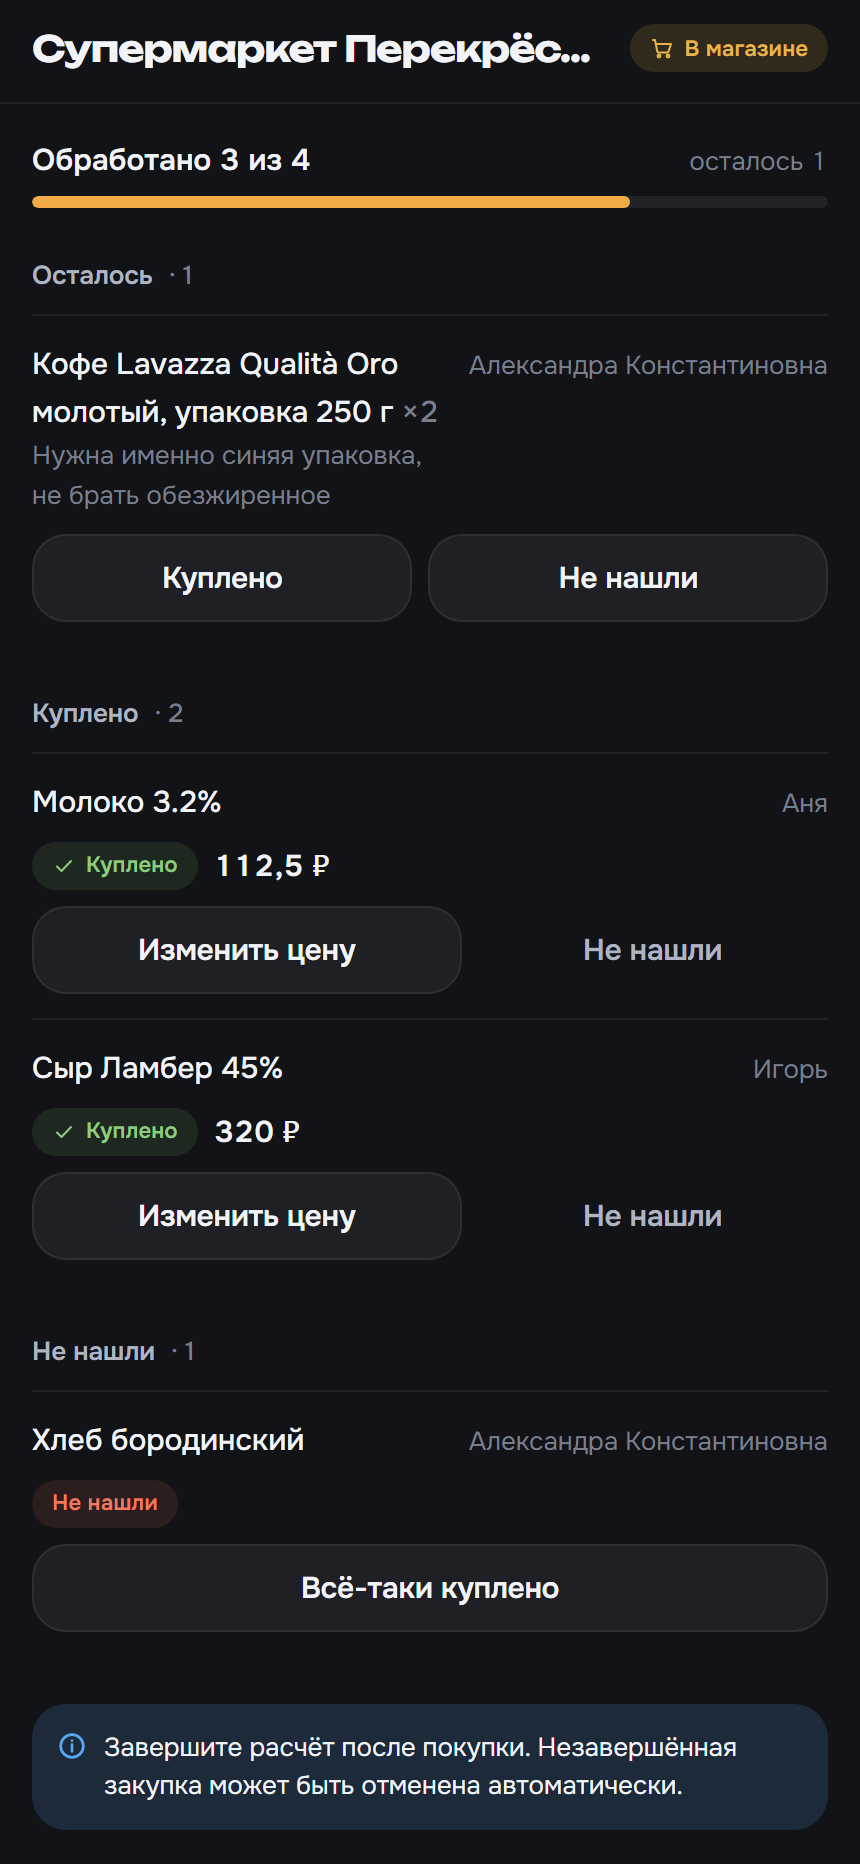
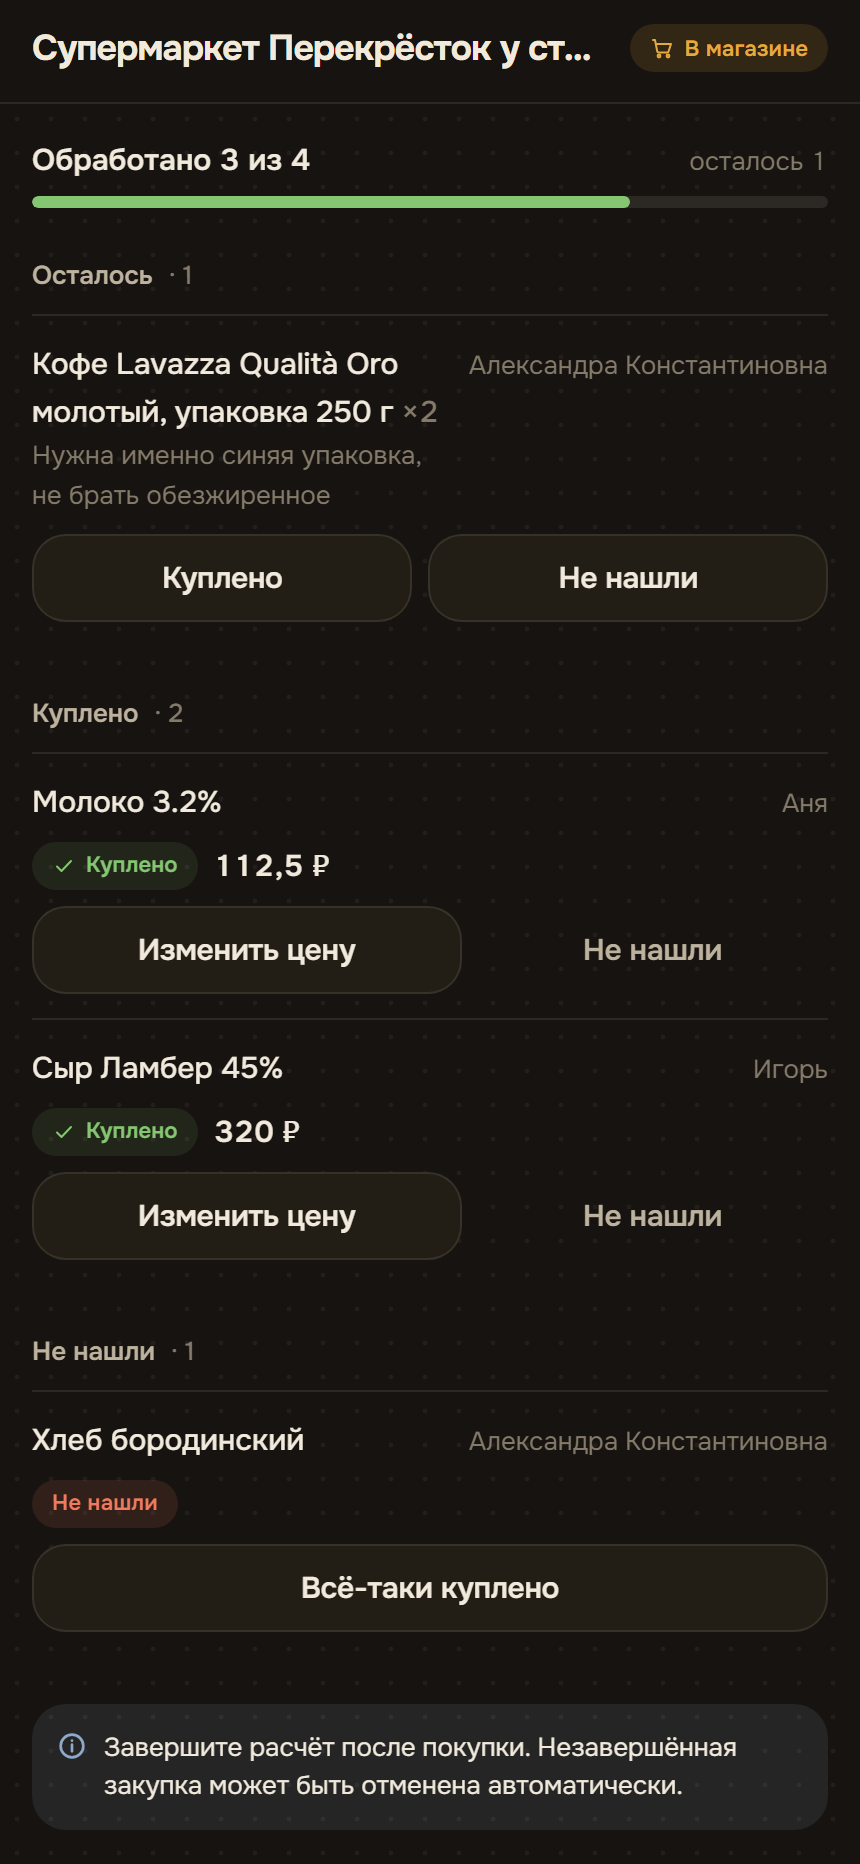
design(frontend-new): перенос системы C в продуктовые токены + dot-фактура
Оба [data-theme]-блока — на «нейтрали, цвет = значение»: чернильная/слоновая
CTA без hue, доменные токены --vote/--shop/--money, тёплые нейтрали и тени,
плоские поверхности. Фактура «перфолента-точки» на body::before (z-index:-1).
Заголовки → Onest (--font-head), Unbounded только в логотипе. Статус «Сбор»
→ warning-домен; полосы: таймер сбора — шафран, прогресс покупок — зелёный.
Vitest: отключён deps-optimizer (источник флейки «no tests»); 187/187 ×2.
Скриншот-регрессия Store Run пересняna (23 кадра).

diff --git a/frontend-new/src/styles/tokens.css b/frontend-new/src/styles/tokens.css
@@ -111,100 +111,116 @@
   --nav-h: 66px;
 }
 
-/* ---------- Colors: light ---------- */
+/* ---------- Colors: light — система C «нейтрали, цвет = значение»
+   (docs/design-directions/system-c-spec.md). Действие (--accent) — чернила
+   без hue; цвет несут только домены (--vote/--shop/--money) и статусы. ---------- */
 [data-theme='light'] {
-  --canvas: #f1f3f6;
-  --surface: #ffffff;
-  --surface-secondary: #f3f5f8;
+  --canvas: #f3efe7;
+  --surface: #fdfbf6;
+  --surface-secondary: #ece7dc;
   --elevated: #ffffff;
-  --text-primary: #1d2127;
-  --text-secondary: #5d646f;
-  --text-tertiary: #8b929e;
-  --divider: rgba(55, 65, 90, 0.1);
-  --accent: #b27708;
-  --accent-foreground: #261a02;
-  --accent-hover: #9e6907;
-  --accent-active: #8a5c06;
-  --accent-tint: rgba(214, 137, 20, 0.12);
-  --accent-ring: rgba(214, 137, 20, 0.2);
-  --success: #47823a;
-  --success-tint: rgba(110, 180, 95, 0.13);
-  --success-foreground: #ffffff;
-  --warning: #a97b0e;
-  --warning-tint: rgba(232, 181, 74, 0.18);
-  --warning-foreground: #ffffff;
-  --danger: #c2503b;
-  --danger-tint: rgba(225, 105, 80, 0.11);
-  --danger-foreground: #ffffff;
-  --info: #2a7bd6;
-  --info-tint: rgba(86, 168, 245, 0.14);
-  --info-foreground: #ffffff;
-  --overlay: rgba(8, 12, 18, 0.45);
-  --focus-ring: rgba(214, 137, 20, 0.55);
+  --text-primary: #23201b;
+  --text-secondary: #5d574c;
+  --text-tertiary: #8d8678;
+  --divider: rgba(60, 52, 38, 0.12);
+  --accent: #26211a;
+  --accent-foreground: #f7f3ea;
+  --accent-hover: #322c23;
+  --accent-active: #1b1712;
+  --accent-tint: rgba(38, 33, 26, 0.07);
+  --accent-ring: rgba(38, 33, 26, 0.18);
+  --vote: #b4451f;
+  --vote-tint: rgba(180, 69, 31, 0.1);
+  --shop: #9a6604;
+  --shop-tint: rgba(154, 102, 4, 0.11);
+  --money: #3e7a34;
+  --money-tint: rgba(62, 122, 52, 0.1);
+  --success: #3e7a34;
+  --success-tint: rgba(62, 122, 52, 0.1);
+  --success-foreground: #f4f9f1;
+  --warning: #9a6604;
+  --warning-tint: rgba(154, 102, 4, 0.12);
+  --warning-foreground: #fffdf6;
+  --danger: #b23a25;
+  --danger-tint: rgba(178, 58, 37, 0.1);
+  --danger-foreground: #fdf1ee;
+  --info: #58718f;
+  --info-tint: rgba(88, 113, 143, 0.1);
+  --info-foreground: #f2f5f9;
+  --overlay: rgba(28, 22, 14, 0.5);
+  --focus-ring: rgba(38, 33, 26, 0.5);
+  --texture-dot: rgba(90, 62, 20, 0.07);
 
-  /* materials «Графит и мёд» */
-  --card-grad: linear-gradient(180deg, #ffffff, #f3f5f8);
-  --float-grad: linear-gradient(180deg, rgba(255, 255, 255, 0.96), rgba(243, 245, 249, 0.98));
-  --surface-glass: rgba(247, 248, 250, 0.78);
+  /* materials: плоские поверхности, тёплые тени */
+  --card-grad: linear-gradient(180deg, #fdfbf6, #fdfbf6);
+  --float-grad: linear-gradient(180deg, rgba(253, 251, 246, 0.96), rgba(253, 251, 246, 0.98));
+  --surface-glass: rgba(253, 251, 246, 0.85);
   --glass-blur: 10px;
-  --accent-grad: linear-gradient(135deg, #f6be5f, #d68914);
-  --accent-grad-hover: linear-gradient(135deg, #f8c876, #e29a1d);
-  --accent-grad-active: linear-gradient(135deg, #edb44f, #c67f10);
-  --shadow-1: 0 1px 3px rgba(55, 65, 90, 0.08), 0 2px 8px rgba(55, 65, 90, 0.06);
-  --shadow-2: inset 0 1px 0 rgba(255, 255, 255, 0.9), 0 14px 30px -16px rgba(55, 65, 90, 0.3), 0 3px 8px -4px rgba(55, 65, 90, 0.15);
-  --shadow-3: inset 0 1px 0 rgba(255, 255, 255, 0.9), 0 18px 40px -14px rgba(50, 60, 85, 0.35), 0 4px 12px -4px rgba(50, 60, 85, 0.18);
+  --accent-grad: linear-gradient(180deg, #26211a, #26211a);
+  --accent-grad-hover: linear-gradient(180deg, #322c23, #322c23);
+  --accent-grad-active: linear-gradient(180deg, #1b1712, #1b1712);
+  --shadow-1: 0 1px 2px rgba(70, 55, 25, 0.05), 0 4px 12px -8px rgba(70, 55, 25, 0.18);
+  --shadow-2: 0 1px 2px rgba(70, 55, 25, 0.05), 0 8px 22px -14px rgba(70, 55, 25, 0.22);
+  --shadow-3: 0 2px 4px rgba(70, 55, 25, 0.06), 0 12px 30px -14px rgba(70, 55, 25, 0.3);
 }
 
-/* ---------- Colors: dark ---------- */
+/* ---------- Colors: dark — система C ---------- */
 [data-theme='dark'] {
-  --canvas: #121317;
-  --surface: #1e2025;
-  --surface-secondary: #17181c;
-  --elevated: #26282f;
-  --text-primary: #f1f3f7;
-  --text-secondary: #aeb5c0;
-  --text-tertiary: #787f8c;
-  --divider: rgba(228, 235, 248, 0.08);
-  --accent: #f0ab46;
-  --accent-foreground: #261a02;
-  --accent-hover: #f4ba62;
-  --accent-active: #d68914;
-  --accent-tint: rgba(240, 171, 70, 0.14);
-  --accent-ring: rgba(240, 171, 70, 0.18);
-  --success: #8fcb7f;
-  --success-tint: rgba(125, 195, 110, 0.12);
-  --success-foreground: #10250b;
-  --warning: #e8b54a;
-  --warning-tint: rgba(232, 181, 74, 0.14);
-  --warning-foreground: #241802;
-  --danger: #ee7a5f;
-  --danger-tint: rgba(238, 110, 80, 0.12);
-  --danger-foreground: #2a0f06;
-  --info: #56a8f5;
-  --info-tint: rgba(86, 168, 245, 0.16);
-  --info-foreground: #0a1a2e;
-  --overlay: rgba(8, 12, 18, 0.55);
-  --focus-ring: rgba(240, 171, 70, 0.5);
+  --canvas: #171310;
+  --surface: #221d15;
+  --surface-secondary: #1c1812;
+  --elevated: #2a241b;
+  --text-primary: #f0e9dc;
+  --text-secondary: #bdb29e;
+  --text-tertiary: #837a69;
+  --divider: rgba(240, 233, 220, 0.1);
+  --accent: #efe7d8;
+  --accent-foreground: #1d1812;
+  --accent-hover: #fff8eb;
+  --accent-active: #ded4c2;
+  --accent-tint: rgba(239, 231, 216, 0.1);
+  --accent-ring: rgba(239, 231, 216, 0.22);
+  --vote: #ff9066;
+  --vote-tint: rgba(255, 144, 102, 0.12);
+  --shop: #e4a93f;
+  --shop-tint: rgba(228, 169, 63, 0.12);
+  --money: #84c671;
+  --money-tint: rgba(132, 198, 113, 0.11);
+  --success: #84c671;
+  --success-tint: rgba(132, 198, 113, 0.11);
+  --success-foreground: #13200b;
+  --warning: #e4a93f;
+  --warning-tint: rgba(228, 169, 63, 0.13);
+  --warning-foreground: #241a02;
+  --danger: #f07a5e;
+  --danger-tint: rgba(240, 122, 94, 0.12);
+  --danger-foreground: #2a0e06;
+  --info: #8fa9c9;
+  --info-tint: rgba(143, 169, 201, 0.12);
+  --info-foreground: #0e1622;
+  --overlay: rgba(0, 0, 0, 0.6);
+  --focus-ring: rgba(239, 231, 216, 0.45);
+  --texture-dot: rgba(244, 235, 220, 0.055);
 
-  --card-grad: linear-gradient(180deg, #212329, #1b1d22);
-  --float-grad: linear-gradient(180deg, rgba(46, 50, 58, 0.94), rgba(35, 38, 45, 0.97));
-  --surface-glass: rgba(30, 32, 37, 0.62);
+  --card-grad: linear-gradient(180deg, #221d15, #221d15);
+  --float-grad: linear-gradient(180deg, rgba(42, 36, 27, 0.96), rgba(34, 29, 21, 0.98));
+  --surface-glass: rgba(34, 29, 21, 0.85);
   --glass-blur: 12px;
-  --accent-grad: linear-gradient(135deg, #f6be5f, #d68914);
-  --accent-grad-hover: linear-gradient(135deg, #f8c876, #e29a1d);
-  --accent-grad-active: linear-gradient(135deg, #edb44f, #c67f10);
-  --shadow-1: 0 1px 2px rgba(0, 0, 0, 0.35), 0 2px 8px rgba(0, 0, 0, 0.25);
-  --shadow-2: inset 0 1px 0 rgba(235, 240, 250, 0.06), 0 14px 34px -16px rgba(4, 6, 10, 0.8), 0 3px 8px -3px rgba(6, 8, 12, 0.5);
-  --shadow-3: inset 0 1px 0 rgba(235, 240, 250, 0.08), 0 18px 40px -14px rgba(4, 6, 10, 0.85), 0 4px 12px -4px rgba(5, 7, 10, 0.6);
+  --accent-grad: linear-gradient(180deg, #efe7d8, #efe7d8);
+  --accent-grad-hover: linear-gradient(180deg, #fff8eb, #fff8eb);
+  --accent-grad-active: linear-gradient(180deg, #ded4c2, #ded4c2);
+  --shadow-1: 0 1px 2px rgba(0, 0, 0, 0.35), 0 4px 12px -8px rgba(0, 0, 0, 0.4);
+  --shadow-2: 0 1px 2px rgba(0, 0, 0, 0.35), 0 8px 22px -14px rgba(0, 0, 0, 0.6);
+  --shadow-3: 0 2px 4px rgba(0, 0, 0, 0.4), 0 12px 30px -14px rgba(0, 0, 0, 0.7);
 }
 
 /* Канвас из Telegram, когда тема приложения совпадает с темой Telegram
    (ручной override, расходящийся с Telegram, отключает подхват — класс снимается). */
 html.tg-synced[data-theme='light'] {
-  --canvas: var(--tg-theme-secondary-bg-color, var(--tg-theme-bg-color, #f1f3f6));
+  --canvas: var(--tg-theme-secondary-bg-color, var(--tg-theme-bg-color, #f3efe7));
 }
 html.tg-synced[data-theme='dark'] {
-  --canvas: var(--tg-theme-secondary-bg-color, var(--tg-theme-bg-color, #121317));
+  --canvas: var(--tg-theme-secondary-bg-color, var(--tg-theme-bg-color, #171310));
 }
 
 /* ============================================================
@@ -239,9 +255,9 @@ html.tg-synced[data-theme='dark'] {
   --sans: var(--font-body);
   --display: var(--font-brand);
   --mono: var(--font-mono);
-  /* --font-head: заголовки пока остаются на Unbounded; перевод на Onest
-     (Unbounded — только бренд) — при редизайне экранов, фазы 4–6 */
-  --font-head: var(--font-brand);
+  /* Система C: заголовки — Onest (Unbounded остаётся ТОЛЬКО в логотипе,
+     точечно через --font-brand) */
+  --font-head: var(--font-body);
   --t-11: var(--text-11);
   --t-13: var(--text-13);
   --t-15: var(--text-15);

diff --git a/frontend-new/src/styles/__tests__/tokens.test.ts b/frontend-new/src/styles/__tests__/tokens.test.ts
@@ -66,11 +66,27 @@ describe('визуальный фундамент 2B', () => {
     expect(indexCss).not.toContain('feTurbulence');
   });
 
-  it('радиальные фоновые засветки удалены — фон один и плоский', () => {
-    expect(indexCss).not.toContain('radial-gradient');
+  it('радиальные засветки удалены; допустима только dot-текстура под контентом', () => {
+    // старые декоративные засветки «Графит и мёд» (radial 120%/80%…) запрещены
+    expect(indexCss).not.toMatch(/radial-gradient\(\s*\d+%/);
     expect(tokensCss).not.toContain('--bg-page: radial');
+    // фактура системы C: ровно один radial-gradient — точки из --texture-dot,
+    // на body::before с z-index:-1 (не поверх модалок)
+    const radials = indexCss.match(/radial-gradient/g) ?? [];
+    expect(radials.length).toBe(1);
+    expect(indexCss).toContain('var(--texture-dot');
+    expect(indexCss).toContain('z-index: -1');
     const backgroundDefs = indexCss.match(/^html\s*\{|^html\.dark\s*\{/gm) ?? [];
     expect(backgroundDefs.length).toBe(1);
+  });
+
+  it('доменные токены системы C определены в обеих темах', () => {
+    for (const theme of ['light', 'dark'] as const) {
+      const block = themeBlock(tokensCss, theme);
+      for (const token of ['--vote', '--shop', '--money', '--texture-dot']) {
+        expect(block, `${token} отсутствует в теме ${theme}`).toContain(`${token}:`);
+      }
+    }
   });
 
   it('accent-glow снят с кнопок и FAB (alias остаётся для легаси)', () => {

diff --git a/frontend-new/vite.config.ts b/frontend-new/vite.config.ts
@@ -36,10 +36,18 @@ export default defineConfig({
   test: {
     environment: 'jsdom',
     setupFiles: ['./src/test/setup.ts'],
-    // Битый deps-optimizer кэш в node_modules/.vite приводил к падению всех
-    // suites («Vitest failed to find the current suite»). Кэш отключён —
-    // детерминированность прогона важнее долей секунды на старте.
-    // TODO(infra): перепроверить необходимость после обновления Vitest > 4.1.x.
+    // Битый deps-optimizer кэш в node_modules/.vite ронял все suites
+    // («Vitest failed to find the current suite») — cache:false его не покрывал:
+    // Vitest 4 держит optimizer-кэш отдельно (node_modules/.vite/vitest) и
+    // переиспользует его после dev/build. Отключаем оптимизер в тестах целиком —
+    // детерминированность важнее долей секунды на старте.
+    // TODO(infra): перепроверить после обновления Vitest > 4.1.x.
     cache: false,
+    deps: {
+      optimizer: {
+        web: { enabled: false },
+        ssr: { enabled: false },
+      },
+    },
   },
 });

diff --git a/frontend-new/src/components/layout/Header.tsx b/frontend-new/src/components/layout/Header.tsx
@@ -28,8 +28,8 @@ export function Header({ title = 'Rocket Lunch', right }: HeaderProps) {
               height: 32,
               borderRadius: 10,
               flexShrink: 0,
-              background: 'var(--accent)',
-              color: 'var(--accent-foreground)',
+              background: 'var(--vote, var(--accent))',
+              color: 'var(--danger-foreground, #fff)',
               display: 'flex',
               alignItems: 'center',
               justifyContent: 'center',
@@ -38,8 +38,10 @@ export function Header({ title = 'Rocket Lunch', right }: HeaderProps) {
             <Icon name="sparkle" size={18} stroke={2} />
           </div>
           <div
-            className="font-head tight"
+            className="tight"
             style={{
+              // Unbounded — только бренд (система C)
+              fontFamily: 'var(--font-brand)',
               fontWeight: 700,
               fontSize: 'var(--t-16)',
               whiteSpace: 'nowrap',

diff --git a/frontend-new/src/styles/index.css b/frontend-new/src/styles/index.css
@@ -18,7 +18,19 @@ body,
 
 /* Единственное определение фона страницы: плоский канвас из токенов. */
 html {
-  background: var(--canvas, #ebedf1);
+  background: var(--canvas, #f3efe7);
+}
+
+/* Фактура «перфолента-точки» (система C): под контентом (z-index:-1),
+   НЕ поверх модалок — урок бага с грейном на z-999. */
+body::before {
+  content: '';
+  position: fixed;
+  inset: 0;
+  z-index: -1;
+  pointer-events: none;
+  background-image: radial-gradient(circle, var(--texture-dot, transparent) 1.2px, transparent 1.3px);
+  background-size: 17px 17px;
 }
 
 body {

diff --git a/frontend-new/src/styles/redesign-v2.css b/frontend-new/src/styles/redesign-v2.css
@@ -301,7 +301,7 @@
 .rl .dish-row.is-voted { background: var(--accent-tint); border-color: var(--border-strong); }
 .rl .votebar { height: 6px; border-radius: 999px; background: var(--border-subtle); overflow: hidden; }
 .rl .votebar > i { display: block; height: 100%; border-radius: 999px;
-  background: linear-gradient(90deg, #D68914, #F6BE5F);
+  background: var(--vote, var(--accent));
   transform-origin: left; transition: transform var(--dur-3) var(--ease-out); }
 .rl .qvote {
   width: 30px; height: 30px; border-radius: 50%; flex-shrink: 0;

diff --git a/frontend-new/src/features/store-run/views/CollectingView.tsx b/frontend-new/src/features/store-run/views/CollectingView.tsx
@@ -49,9 +49,10 @@ export function CollectingView({
   const isInitiator = isInitiatorOf(run, currentUserId);
   const items = run.items;
 
+  // Система C: статусы закупки — шафрановый warning-домен, не action-цвет
   const statusAction = useMemo(
     () => (
-      <Status tone="accent" icon="clock">
+      <Status tone="warning" icon="clock">
         Сбор
       </Status>
     ),

diff --git a/frontend-new/src/features/store-run/StoreRunPage.module.css b/frontend-new/src/features/store-run/StoreRunPage.module.css
@@ -80,6 +80,15 @@
   transition: width 1s linear;
 }
 
+/* Система C: цвет полосы = домен. Таймер сбора — шафран, прогресс покупок — зелёный. */
+.countdown .barFill {
+  background: var(--shop, var(--warning));
+}
+
+.progress .barFill {
+  background: var(--money, var(--success));
+}
+
 /* секции участников */
 .section {
   display: flex;
